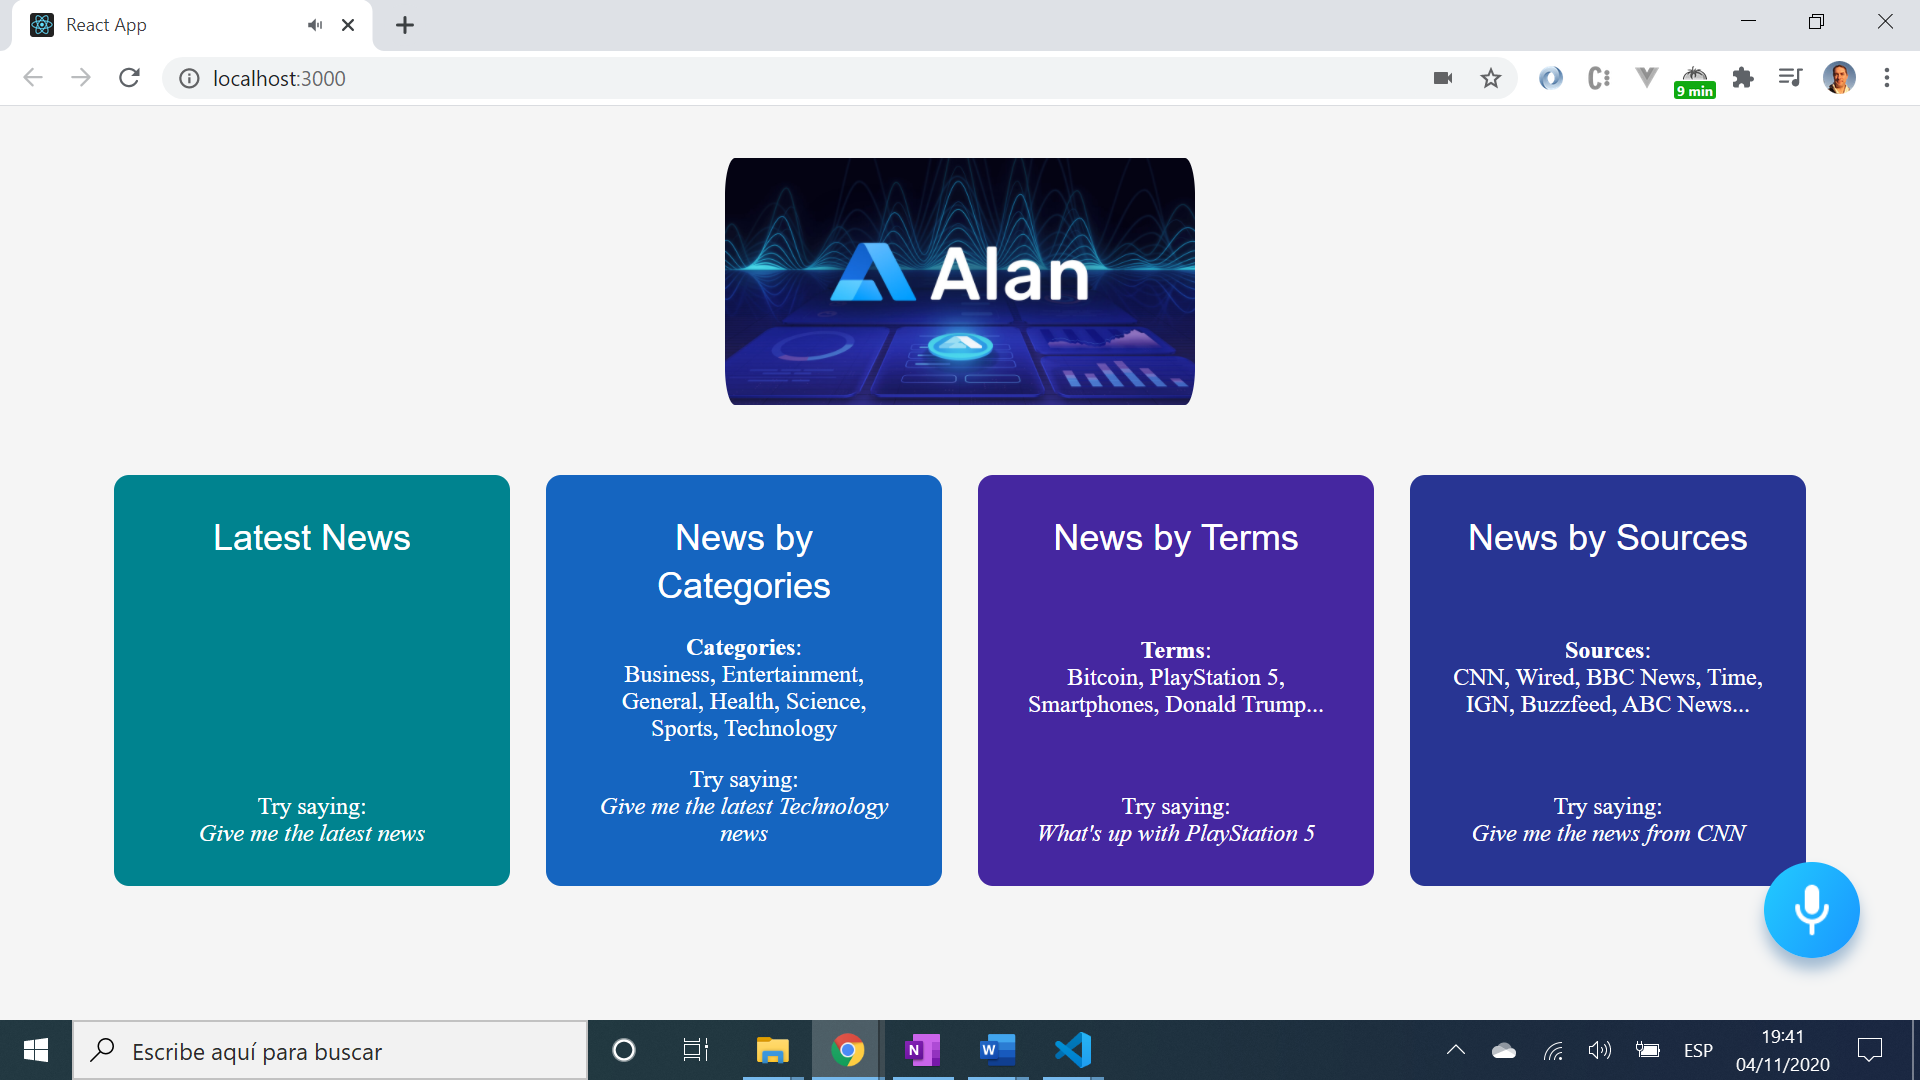
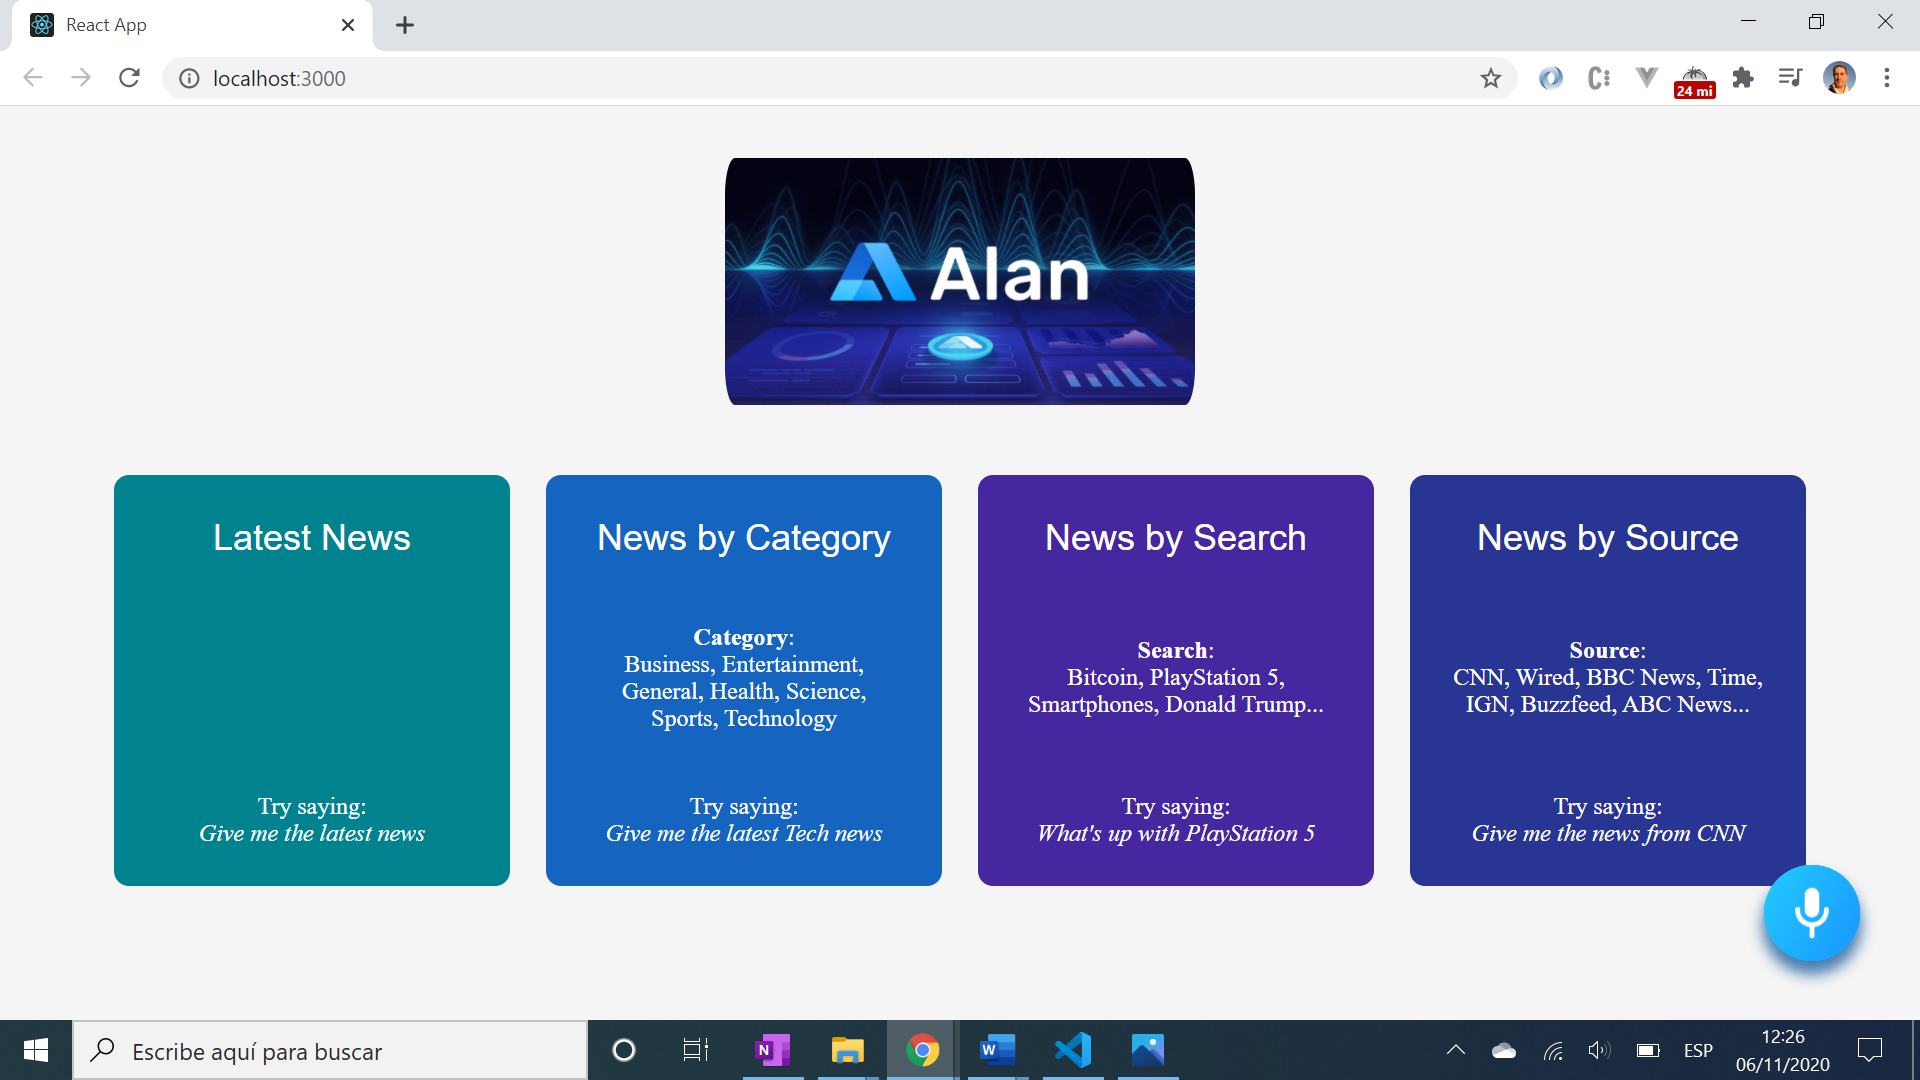
code completed & tested, readme info added

diff --git a/src/App.js b/src/App.js
@@ -1,10 +1,10 @@
 import React, { useState, useEffect } from 'react';
-// import { Typography } from '@material-ui/core';
+import { Typography } from '@material-ui/core';
 import wordsToNumbers from 'words-to-numbers';
 import alanBtn from '@alan-ai/alan-sdk-web';
 
 import NewsCards from './components/NewsCards/NewsCards';
-// import useStyles from './styles';
+import useStyles from './styles';
 
 const alanKey =
 	'';
@@ -13,7 +13,7 @@ const App = () => {
 	const [activeArticle, setActiveArticle] = useState(0);
 	const [newsArticles, setNewsArticles] = useState([]);
 
-	// const classes = useStyles();
+	const classes = useStyles();
 
 	useEffect(() => {
 		alanBtn({
@@ -44,6 +44,31 @@ const App = () => {
 
 	return (
 		<div>
+			<div className={classes.logoContainer}>
+				{newsArticles.length ? (
+					<div className={classes.infoContainer}>
+						<div className={classes.card}>
+							<Typography variant="h5" component="h4">
+								Try saying: <br />
+								<br />
+								Open article number [4]
+							</Typography>
+						</div>
+						<div className={classes.card}>
+							<Typography variant="h5" component="h4">
+								Try saying: <br />
+								<br />
+								Go back
+							</Typography>
+						</div>
+					</div>
+				) : null}
+				<img
+					src="https://alan.app/voice/images/previews/preview.jpg"
+					className={classes.alanLogo}
+					alt="logo"
+				/>
+			</div>
 			<NewsCards articles={newsArticles} activeArticle={activeArticle} />
 		</div>
 	);

diff --git a/src/components/NewsCards/NewsCards.js b/src/components/NewsCards/NewsCards.js
@@ -9,8 +9,9 @@ const infoCards = [
 	{
 		color: '#1565c0',
 		title: 'News by Category',
-		info:	'Business, Entertainment, General, Health, Science, Sports, Technology',
-		text: 'Give me the latest Technology news',
+		info:
+			'Business, Entertainment, General, Health, Science, Sports, Technology',
+		text: 'Give me the latest Tech news',
 	},
 	{
 		color: '#4527a0',
@@ -80,16 +81,9 @@ const NewsCards = ({ articles, activeArticle }) => {
 				spacing={3}
 			>
 				{articles.map((article, i) => (
-					<grid
-						item
-						xs={12}
-						sm={6}
-						md={4}
-						lg={3}
-						style={{ display: 'flex' }}
-					>
-						<NewsCard article={article} activeArticle={activeArticle} i={i} />
-					</grid>
+					<Grid item xs={12} sm={6} md={4} lg={3} style={{ display: 'flex' }}>
+						<NewsCard activeArticle={activeArticle} i={i} article={article} />
+					</Grid>
 				))}
 			</Grid>
 		</Grow>

diff --git a/src/components/NewsCards/NewsCard/NewsCard.js b/src/components/NewsCards/NewsCard/NewsCard.js
@@ -8,7 +8,6 @@ import {
 	Button,
 	Typography,
 } from '@material-ui/core';
-// import classNames from 'classNames';
 
 import useStyles from './styles';
 
@@ -43,7 +42,7 @@ const NewsCard = ({
 	return (
 		<Card
 			ref={elRefs[i]}
-			className={ activeArticle === i ? classes.activeCard : classes.card}
+			className={ activeArticle === i ? classes.activeCard : classes.card }
 		>
 			<CardActionArea href={url} target="_blank">
 				<CardMedia

diff --git a/README.md b/README.md
@@ -1,11 +1,11 @@
-# :zap: React Speach Recognise
+# :zap: React Speech Recognise
 
-* React app using the [Alan Conversational Voice AI Platform](https://alan.app/platform) to play news from the [News API](https://newsapi.org/)
-* Code from a tutorial by [JavaScript Mastery](https://www.youtube.com/channel/UCmXmlB4-HJytD7wek0Uo97A) - see [:clap: Inspiration](#clap-inspiration) below
+* React app using the [Alan Conversational Voice AI Platform](https://alan.app/platform) to get news from the [News API](https://newsapi.org/)
+* Code from an excellent tutorial by [JavaScript Mastery](https://www.youtube.com/channel/UCmXmlB4-HJytD7wek0Uo97A) - see [:clap: Inspiration](#clap-inspiration) below. I have made a few minor changes.
 
 ## :page_facing_up: Table of contents
 
-* [:zap: React Speach Recognise](#zap-react-speach-recognise)
+* [:zap: React Speech Recognise](#zap-react-speech-recognise)
   * [:page_facing_up: Table of contents](#page_facing_up-table-of-contents)
   * [:books: General info](#books-general-info)
   * [:camera: Screenshots](#camera-screenshots)
@@ -19,11 +19,16 @@
 
 ## :books: General info
 
-* [Alan AI free interactions](https://studio.alan.app/billing) quantity has changed from what is shown in the Youtube tutorial. Only 50 free interactions now. Promo code? You can increase your interactions quota by starring their [9 pinned repos in Github](https://github.com/alan-ai)
+* The [Alan AI Platform](https://alan.app/docs/tutorials/how-tos) allows user to request the Latest News, News by Category, News by Search and News by Source using voice commands
+* News articles are displayed in a responsive grid using @material-ui templates
+* The Alan AI has to be activated by clicking on the Alan AI button. After this all commands can be by voice.
+* The quantity of [Alan AI free interactions](https://studio.alan.app/billing) has changed from what is shown in the Youtube tutorial. Only 50 free interactions were given. However, the Youtube tutorial has a Promo code `JSMASTERY` :clap: _that does indeed give you 2500 free interactions!_ :clap: You can further increase your interactions quota by 9 by starring their [9 pinned repos in Github](https://github.com/alan-ai)
+* Note, the [subscription model for the news API](https://newsapi.org/pricing) changed some time back; it is only free for development. The API call is actually made from the Alan AI, which maybe gets round the CORS error 426 that occurs when trying to use the News API from a non-localhost server
 
 ## :camera: Screenshots
 
 ![screen print](./img/alan.png)
+![screen print](./img/news.png)
 
 ## :signal_strength: Technologies
 
@@ -32,31 +37,51 @@
 * [@material-ui/core](https://www.npmjs.com/package/@material-ui/core) npm package: React components framework
 * [Alan advanced Voice AI Platform](https://alan.app/docs/usage/about) to add a voice interface backend to the app.
 * [newsapi.org](https://newsapi.org/) worldwide news API
+* [words-to-numbers](https://www.npmjs.com/package/words-to-numbers) npm package to convert words to numbers. The option to fuzzy match the words to numbers was used.
 
 ## :floppy_disk: Setup
 
+* Follow tutorial [Javascript Mastery: Youtube: Build a Voice Recognition React News Application - Alan AI Voice Assistant](https://www.youtube.com/watch?v=rqw3OftE5sA) to create this app
 * Run `npm i` to install dependencies
 * Sign up and get yourself an API key for the [Alan Studio](https://alan.app/docs/usage/getting-started)
 * Sign up and get yourself an API key for the [newsapi.org](https://newsapi.org/docs/get-started)
-* Run `npm start` to run app
+* A 'flexible javascript' code that includes intents as voice commands with replies has to be written in an Alan studio project. There is a copy of my version of this code in the file `backupAlan`
+* Run `npm start` to run app on port `http://localhost:3000`
 
 ## :computer: Code Examples
 
-* extract from - tba
+* extract from the Alan AI project code that fetches news items from the News API using a user-specified search term. They are parsed to JSON then, if the JSON object is not empty, played if user confirmation received.
 
 ```javascript
+api.request(NEWS_API_URL, (error, response, body) => {
+  const { articles } = JSON.parse(body);
 
+  if(!articles.length) {
+    p.play('Sorry, try searching for something else.');
+    return;
+  }
+
+  savedArticles = articles;
+
+  p.play({ command: 'newsHeadlines', articles });
+  p.play(`Here are the (latest|recent) articles on ${p.term.value}.`);
+
+  p.play('Would you like me to read the headlines?');
+  p.then(confirmation);
+
+})
 ```
 
 ## :cool: Features
 
 * @material-ui components save a lot of time with ready-made cards etc.
-* Alan AI Voice Assistant has cool features. These include a library of predefined scripts, including weather, bitcoin, translator etc. The Smalltalk predefined script was added, that 'gives responses to casual conversation'.
+* Alan AI Voice Assistant has lots of cool features. These include a library of predefined scripts, including weather, bitcoin, translator etc. The Smalltalk predefined script was added, that 'gives responses to casual conversation'.
+* The Alan AI voice activation command button appears on the bottom right of screen and looks quite cool.
 
 ## :clipboard: Status & To-do list
 
-* Status: Nearly complete - grid layout of news cards is not correct
-* To-do: Fix grid, test and document
+* Status: Working
+* To-do: Some styling could be improved. This is a useful sandbox to play with Alan UI, including translation scripts. Alan UI website includes tutorial to add its UI to an Ionic App - a good future project.
 
 ## :clap: Inspiration
 
